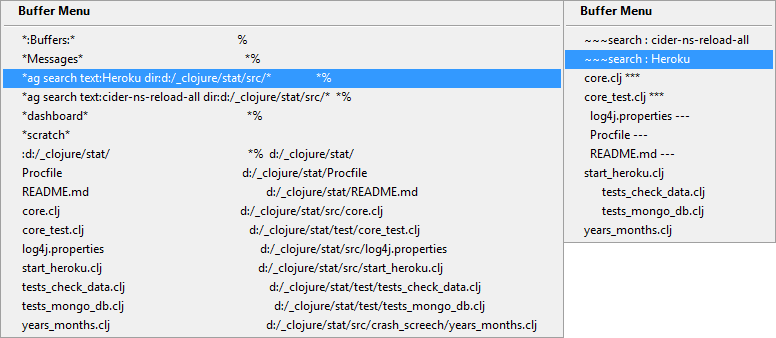
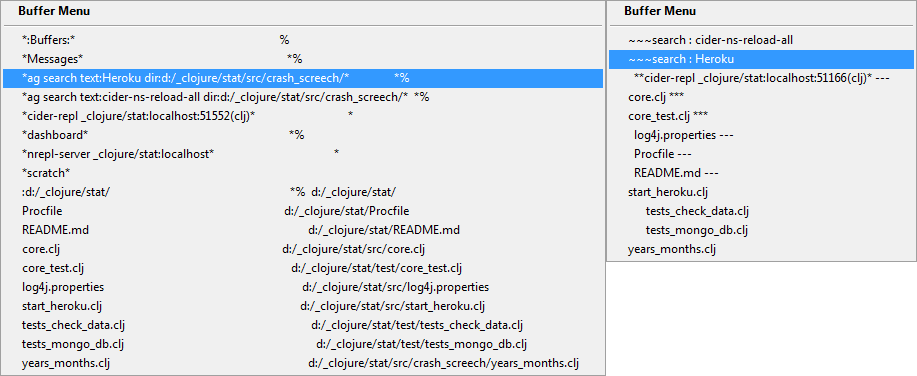
fix 1

diff --git a/README.md b/README.md
@@ -5,12 +5,14 @@
 
 	The left Buffer Menu has the default behavior of a left-click with control pressed.  
 
-	The right Buffer Menu has the new behavior.
-		- caseless sorting
+	The right Buffer Menu has new behavior
 		- easy to discern ag-search buffers
+		- caseless sorting
 		- "test" files indented
 		- "core" files suffixed with "***"
 		- non-clojure files suffixed with "---"
+		- no path information
+		- non-file buffers hidden except Cider-repl and Cider-error 
 
 ## Created by
 
